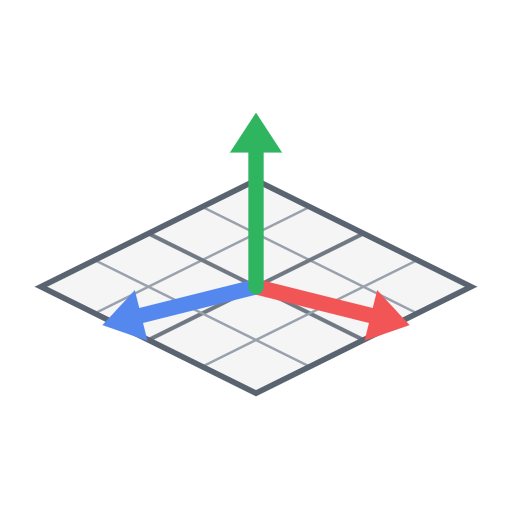
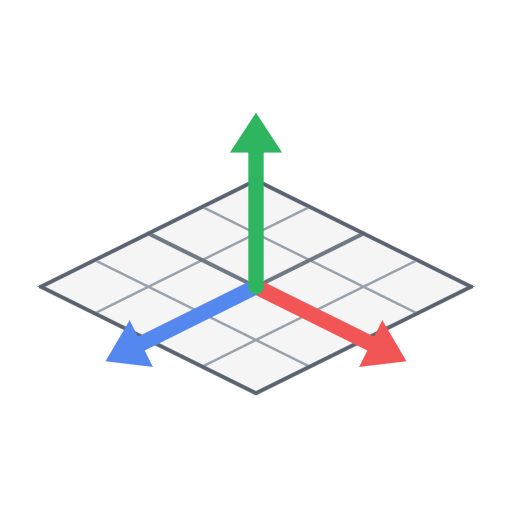
v0802-G: 格子をv0731-Iの姿へ戻す（フェード・外枠を撤去）／ホーム画面アイコン＝赤青の矢を格子の目に沿わせ・外枠を細く

diff --git a/app.js b/app.js
@@ -9,7 +9,7 @@
 
 // 版数表示：app.js 側に置くことで Date.now() 取得で毎回最新になり、普通の再読込で版数も更新される
 // （index.html はキャッシュされるので版数を埋めない）。左上ブランドへ動的に付与し、古い版数spanは掃除する。
-const APP_VER = 'v0802-F';
+const APP_VER = 'v0802-G';
 (function showVer() {
   const brand = document.querySelector('.brand');
   if (!brand) return;
@@ -37,7 +37,7 @@ const scene = new THREE.Scene();
 // 起動下地（index.htmlのbody background）も同色＝立ち上がりから白。
 scene.background = new THREE.Color(0xffffff);
 // 霞（フォグ）なし＝遠くの配管も端まで濁らない（2026-08-01 社長「クリアなイメージ」）。
-// 遠近感は格子の放射フェード（buildGrid）と外形線が受け持つ。印刷も同じ条件で澄む。
+// 遠近感は格子（buildGrid）と外形線が受け持つ。印刷も同じ条件で澄む。
 scene.fog = null;
 document.body.classList.add('light');   // UIは明るい配色で固定（旧ホワイトモードのUIスタイルを常時適用）
 
@@ -146,38 +146,15 @@ window.__edgeSet = (v) => { showEdges = !!v; };
 const modelGroup = new THREE.Group();
 scene.add(modelGroup);
 let grid = null;
-// 格子＝中心から半径4.5mまでははっきり、そこから10mへ向けて透けて消える「宙に浮いた舞台」。
-// 端を切り落とさず溶かすので、四角い板ではなく空間に浮いて見える（2026-08-01 社長指示）。
-// 実装＝線材質のシェーダに中心距離のフェードを1行差し込む（線のシャープさはGridHelperのまま）。
-// 消え際は手前寄り＝遠くの線が遠近で圧縮されて灰色のモヤになるのを防ぐ（2026-08-02 社長「画像のような白さ」）
-// フェードの等高線は円でなく正方形（チェビシェフ距離）＝「四角いステージ」に見える（2026-08-02 社長指示）
-const GRID_FADE_IN = 5.0, GRID_FADE_OUT = 5.5;
+// 格子＝20m四方・50cm目盛りのシンプルな格子（v0731-I の姿。2026-08-02 社長指示で復帰）。
+// フェード（放射／チェビシェフ）・外枠線は入れない＝素の GridHelper 1枚だけ。
 function buildGrid(c1, c2) {
-  if (grid) { modelGroup.remove(grid); grid.traverse(o => { if (o.geometry) o.geometry.dispose(); if (o.material) o.material.dispose(); }); }
-  grid = new THREE.Group();
-  const gh = new THREE.GridHelper(20, 40, c1, c2);
-  gh.material.opacity = 0.9; gh.material.transparent = true;
-  gh.material.onBeforeCompile = (sh) => {
-    sh.vertexShader = sh.vertexShader
-      .replace('#include <common>', '#include <common>\nvarying vec2 vXZ;')
-      .replace('#include <begin_vertex>', '#include <begin_vertex>\nvXZ = position.xz;');
-    sh.fragmentShader = sh.fragmentShader
-      .replace('#include <common>', '#include <common>\nvarying vec2 vXZ;')
-      .replace('#include <color_fragment>',
-        `#include <color_fragment>\n\tdiffuseColor.a *= (1.0 - smoothstep(${GRID_FADE_IN.toFixed(1)}, ${GRID_FADE_OUT.toFixed(1)}, max(abs(vXZ.x), abs(vXZ.y))));`);
-  };
-  grid.add(gh);
-  // 外枠＝右上の格子舞台と同じ「四角いステージ」の縁。フェードの終端に置く
-  const h = GRID_FADE_OUT;
-  const rim = new THREE.LineLoop(
-    new THREE.BufferGeometry().setFromPoints([
-      new THREE.Vector3(-h, 0, -h), new THREE.Vector3(h, 0, -h),
-      new THREE.Vector3(h, 0, h), new THREE.Vector3(-h, 0, h)]),
-    new THREE.LineBasicMaterial({ color: c1, transparent: true, opacity: 0.6 }));
-  grid.add(rim);
+  if (grid) { modelGroup.remove(grid); grid.geometry.dispose(); grid.material.dispose(); }
+  grid = new THREE.GridHelper(20, 40, c1, c2);
+  grid.material.opacity = 0.6; grid.material.transparent = true;
   modelGroup.add(grid);
 }
-buildGrid(0x6f7883, 0x99a1ac);   // グリッド＝地面と同系の青みグレー（濃線/淡線）。v0802で一段濃く（艶の床で薄まった対策）
+buildGrid(0x848c96, 0xaeb4bd);   // グリッド＝地面と同系の青みグレー（濃線/淡線）
 // 床の陰・艶（floorSheen）＝v0802-D で廃止（2026-08-02 社長「背景が真っ白になっていない」）。
 // ホーム視点は見下ろしで画面全体が床＝14m四方の薄灰色がそのまま「背景が灰色」に見えていた（画素実測220/255）。
 // 変数は印刷パスの参照互換のため null のまま残す。

diff --git a/index.html b/index.html
@@ -3,16 +3,16 @@
 <head>
 <meta charset="UTF-8">
 <meta name="viewport" content="width=device-width, initial-scale=1.0, maximum-scale=1.0, user-scalable=no">
-<title>配管3D v0802F — SKT-HD ♦</title>
+<title>配管3D v0802G — SKT-HD ♦</title>
 <!-- ホーム画面アイコン（絵柄＝格子舞台（文字なし））。iOSはapple-touch-iconを使う。
      ※iOSはアイコンをURL単位で強くキャッシュし、絵柄を変えても「ホーム画面に追加」の画面には
        古いアイコンが出続ける（2026-07-27 社長報告）。URLに版を付けて別物として取り直させる。
        絵柄を差し替えたときは ?v= の日付を必ず上げること。 -->
-<link rel="apple-touch-icon" sizes="180x180" href="apple-touch-icon.png?v=20260802">
-<link rel="apple-touch-icon-precomposed" sizes="180x180" href="apple-touch-icon.png?v=20260802">
-<link rel="icon" type="image/png" sizes="192x192" href="icon-192.png?v=20260802">
-<link rel="icon" type="image/png" sizes="512x512" href="icon-512.png?v=20260802">
-<meta name="apple-mobile-web-app-title" content="配管3D v0802F">
+<link rel="apple-touch-icon" sizes="180x180" href="apple-touch-icon.png?v=20260802b">
+<link rel="apple-touch-icon-precomposed" sizes="180x180" href="apple-touch-icon.png?v=20260802b">
+<link rel="icon" type="image/png" sizes="192x192" href="icon-192.png?v=20260802b">
+<link rel="icon" type="image/png" sizes="512x512" href="icon-512.png?v=20260802b">
+<meta name="apple-mobile-web-app-title" content="配管3D v0802G">
 <meta name="theme-color" content="#1c3157">
 <link rel="manifest" href="manifest.json">
 <style>
